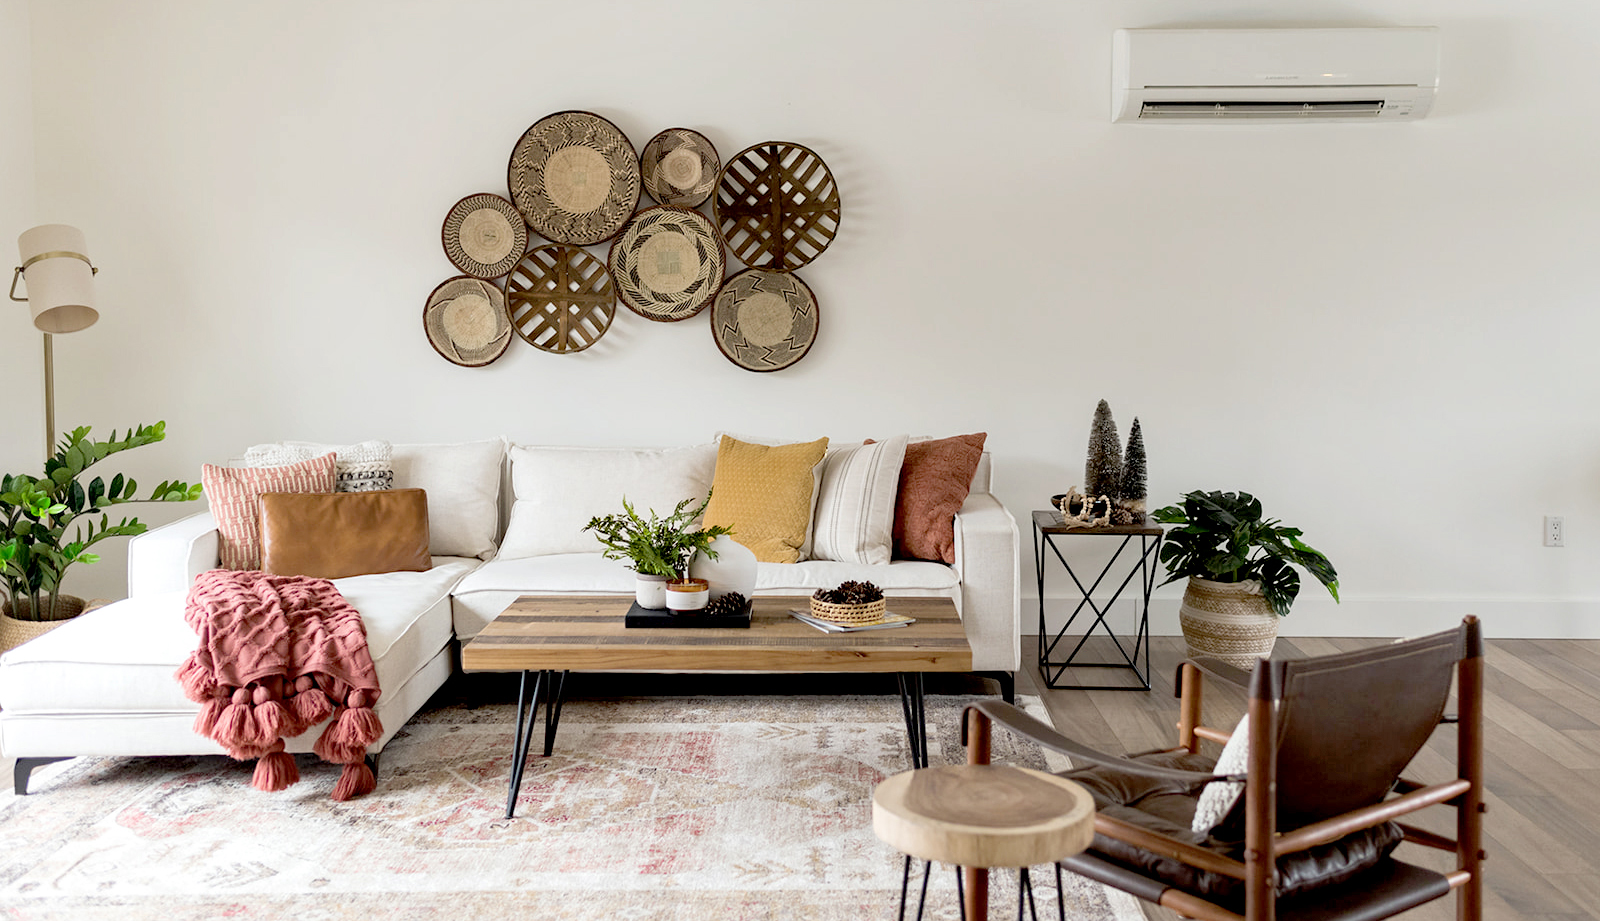
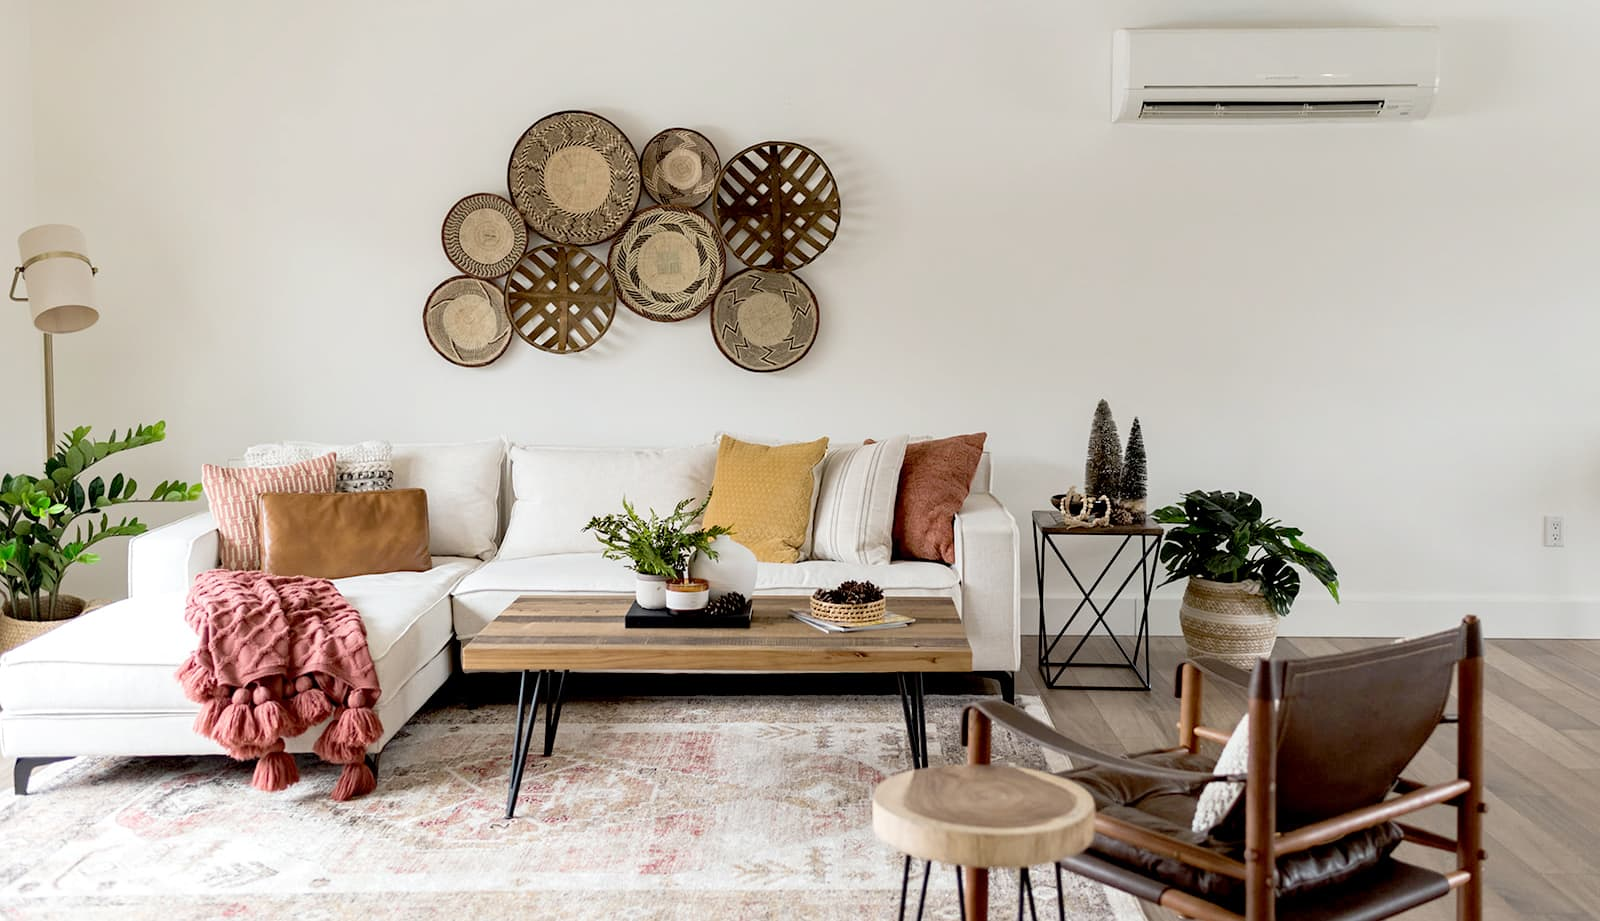
Cleaned up folder. Images resized to be smaller. Final commit.

diff --git a/community.html b/community.html
@@ -65,7 +65,7 @@
         </section>   
         <section class="community-content">
             <div class="banner">
-                <img src="img/building-stronger.png" alt="Community Investments Banner">
+                <img src="img/building-stronger.jpg" alt="Community Investments Banner">
                 <div class="banner-overlay">
                     <div class="overlay-content">
                         <h2>BUILDING STRONGER COMMUNITIES TOGETHER</h2>
